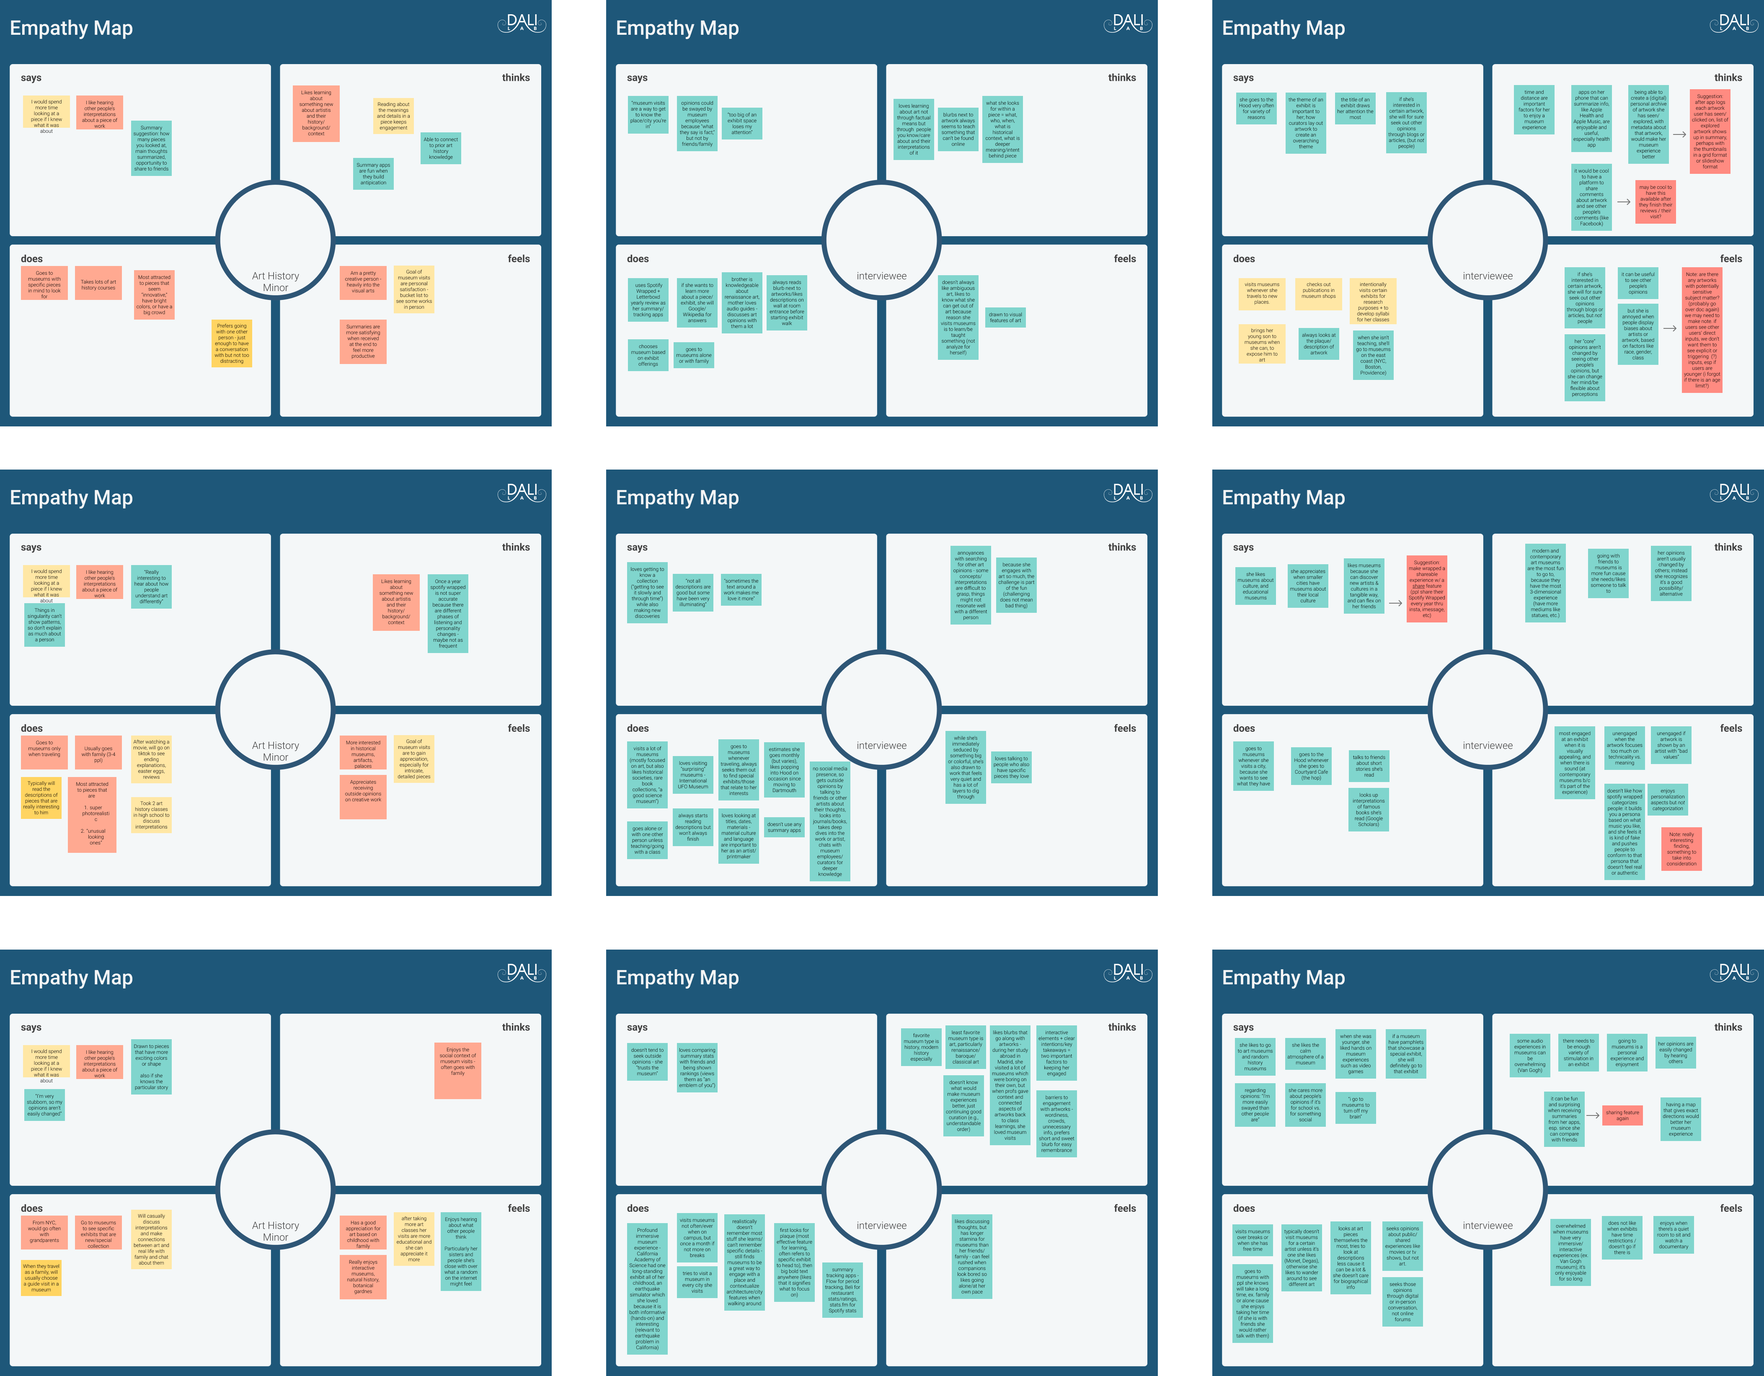
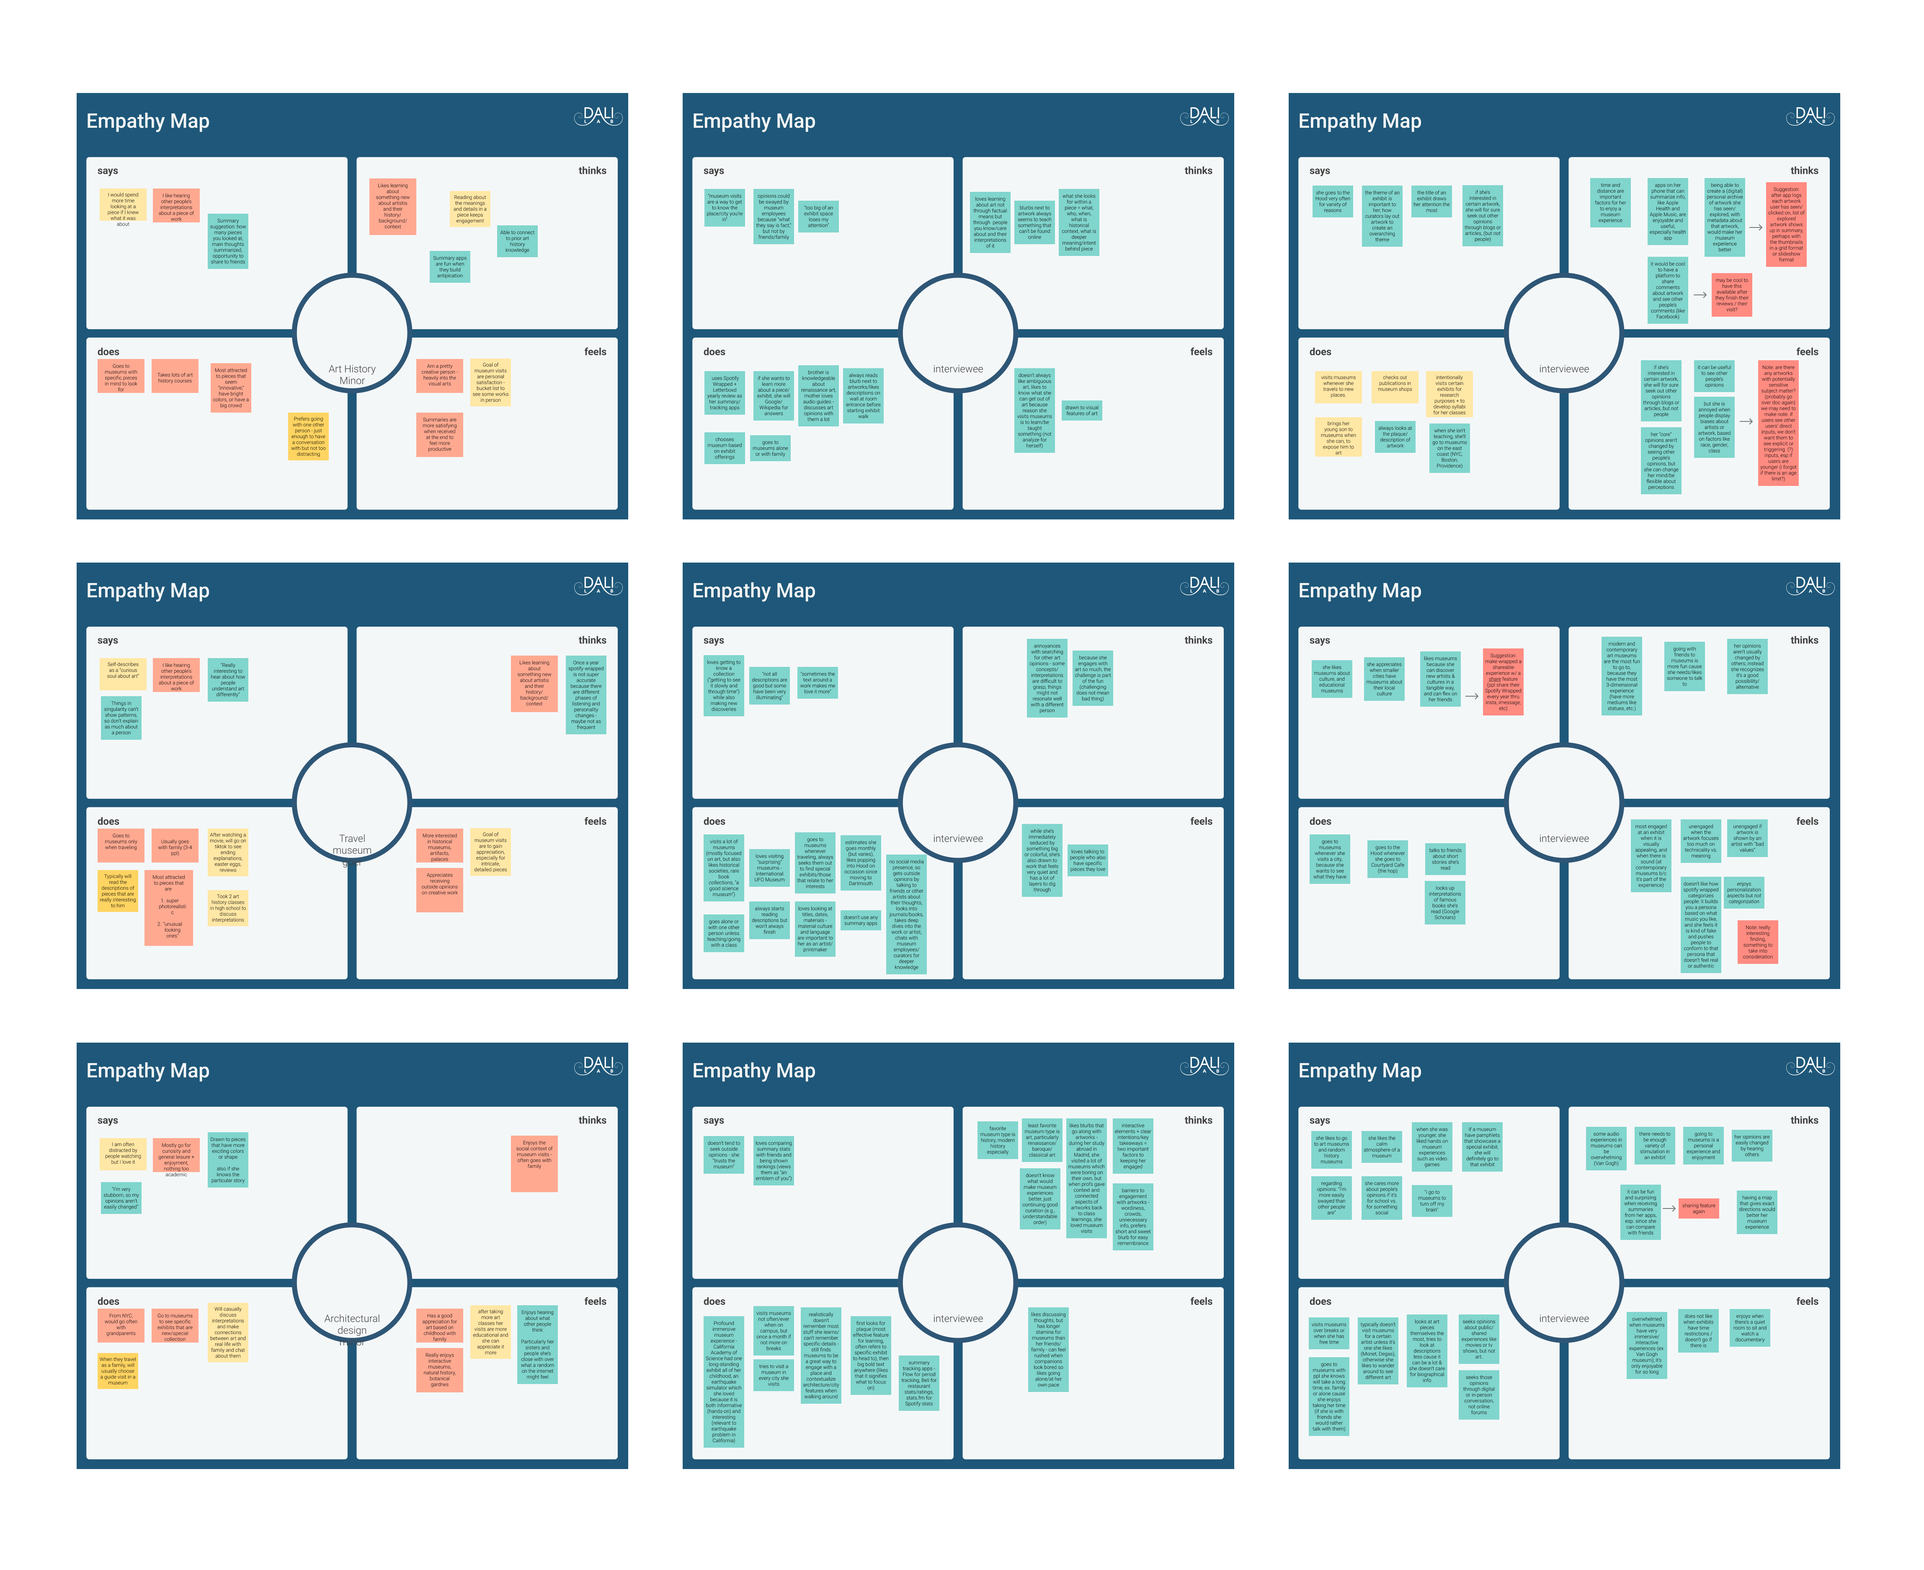
case study work

diff --git a/src/pages/ambiguityinart.js b/src/pages/ambiguityinart.js
@@ -63,13 +63,15 @@ function AmbiguityInArt() {
         <p>In previous studies, the FINN Lab team utilized a controlled lab setting where they gathered data through pen-and-paper surveys.
             However, they sought to expand their form of data collection through visitors of Dartmouth's art museum, the Hood Museum of Art.
             They envisioned a mobile 'edutainment' experience that allows museum-goers to enjoy an <b>interactive digital journey</b>, enabling them to <b>engage directly with the artwork before them</b>.
-            Our team was tasked with designing and developing a mobile app that allows Hood Museum visitors to interpret artworks through a Mad-Libs style activity.</p>
+            Our team was tasked with designing and developing a mobile app that allows Hood Museum visitors to interpret artworks through a <u>Mad-Libs style activity</u>.</p>
 
         <h4>Key Partners</h4>
         <p>Throughout the 10 week sprint, we met weekly with FINN Lab reps Professor Emily Finn and graduate student Clara Sava-Segal for reviews, standups, and feedback.</p>
+        <hr style={{ border: '0', borderTop: '1px solid #ccc', margin: '2rem 0', transform: 'scaleY(0.7)' }} />
       </section>
 
       <section id="product-demo" className="final-product-teaser">
+        <h3>SOLUTION</h3>
         <h2>Product Demo</h2>
         <p>A sneak peek of the prototype and some of its functionalities. Scroll to see the full story below! </p>
         
@@ -82,7 +84,7 @@ function AmbiguityInArt() {
               <img src="/assets/ambiguityinart/iphone15frame.png" className="case-study-video-frame"/>
             </div>
             <div className="video-description">
-              <p>Navigate through the Hood Museum map, and click on artworks that are part of the study. </p>
+              <p>Navigate through the Hood Museum map, and click on paintings that are part of the study. </p>
             </div>
           </div>
 
@@ -97,33 +99,32 @@ function AmbiguityInArt() {
               <p>Get personalized summary stats at the end of your museum session, including your artwork personality -- all determined by your interpretations. </p>
             </div>
           </div>
-
         </div>
+        <hr style={{ border: '0', borderTop: '1px solid #ccc', margin: '2rem 0', transform: 'scaleY(0.7)' }} />
       </section>
 
       <section className="partner-requests">
         <h2>Partner Requests</h2>
-        <p>A number of artworks were preselected from the Hood Museum galleries to be part of the study.
-          At our initial meeting, the FINN Lab partners presented to us a general user flow that would best achieve their research goals.
+        <p>A number of paintings were preselected from the Hood Museum galleries to be part of the study.
+          At our initial meeting, the FINN Lab partners presented a general user flow that would best achieve their research goals:
         </p>
         
         <div className="user-flow">
-          <div className="flow-step">Museum map showing artwork selections</div>
+          <div className="flow-step">Select an artwork from the museum map</div>
           <div className="flow-step">Fill out your interpretation (MadLibs style)</div>
           <div className="flow-step">Read an alternative interpretation</div>
-          <div className="flow-step">Rate other interpretation & rate your own</div>
+          <div className="flow-step">Rate that interpretation & rate your own</div>
           <div className="flow-step">Repeat steps with other artworks</div>
           <div className="flow-step">Activity summary at the end of session</div>
         </div>
         
-        <p>From the get-go, we were working within a unique constraint; we needed to <strong> balance an enjoyable user experience alongside the requirements and goals of a scientific study</strong>. 
+        <p>With this outline from the get-go, we needed to ensure we could <strong> balance an enjoyable user experience alongside the requirements and goals of a scientific study</strong>. 
           For example, the partners needed to record quantitative data from the ratings, but not make it obvious to the users, which we needed our designs to reflect.
           Down the line, we would need to separate some screens and include extra instructions to ensure that participants used the app correctly.
         </p>
       </section>
 
       <section id="problem-statement" className="problem-statement">
-        <p>We thus asked ourselves:</p>
         <h2 style={{ fontStyle: 'italic', fontSize: '30px'}}>How might we...</h2>
         <p>facilitate a research study on how people interpret art while making their museum experience enjoyable?</p>
       </section>
@@ -143,7 +144,7 @@ function AmbiguityInArt() {
           />
         </div>
         
-        <p>We noted the pros and cons for each app.</p>
+        <p>We noted down the pros and cons for each app.</p>
         <div style={{ backgroundColor: '#f0f0f0', padding: '1rem', display: 'inline-block', borderRadius: '15px' }}>
           <img
             src="../assets/ambiguityinart/industryresearch_visual2.png"
@@ -151,54 +152,83 @@ function AmbiguityInArt() {
           />
         </div>
 
-        <p>After personally using some of the apps and examining their user experience, we identified 3 main feature buckets: the museum map & navigation, rating interpretations & comparisons, and the activity summary.
-          We then spent time brainstorming specific requirements and components needed for each of the three.</p>
-          <img
-            src="../assets/ambiguityinart/featureidentification.png"
-            className="case-study-image"
-          />
+        <p>After personally using some of the apps and examining their user experience, we identified three main feature buckets:</p>
+        <div style= {{paddingLeft: '20px'}} >
+          <p><b>1. Museum map & navigation</b></p>
+          <p><b>2. Rating interpretations & comparisons</b></p>
+          <p><b>3. The activity summary</b></p>
+        </div>
 
-
-
+        <hr style={{ border: '0', borderTop: '1px solid #ccc', margin: '2rem 0', transform: 'scaleY(0.7)' }} />
       </section>
-
 
     
       <section id='user-research' className="user-research">
         <h3>USER RESEARCH</h3>
         <h2>User Interviews</h2>
-        <p>In order to understand the typical visitor's experience in the Hood Museum, we conducted interviews across multiple age groups. We sat down with students and faculty across Dartmouth's campus. Each interviewee had a varying degree of interest in museums or a relevant background in museum art. The goal of our user interviews was to gauge the following:</p>
-        <div>
-          <li>What is a typical visitor's experience at a museum, and what keeps them engaged?</li>
-          <li>What is the most user-friendly way to display other people’s opinions?</li>
-          <li>How do we best summarize personal data from each museum visit?</li>
+        <p>In order to understand a typical visitor's experience in the Hood Museum, we sat down with various students and faculty across Dartmouth. Each interviewee had a varying degree of interest in museums, or a background in museum art. The goal of our user interviews was to gauge the following:</p>
+        <div className="bubble-container">
+          <div className="bubble">
+            <p>What is the average visitor's experience at a museum like, and what keeps them engaged?</p>
+          </div>
+          <div className="bubble">
+            <p>Because the activity displays outside opinions, what is the most user-friendly way to display them?</p>
+          </div>
+          <div className="bubble">
+            <p>How do we best summarize personal data from each user's museum visit into their activity summary?</p>
+          </div>
         </div>
       </section>
 
+
       <section className="data-analysis">
         <h2>Data analysis</h2>
-        <p>After our user interviews, we synthesized our findings into <strong>empathy maps</strong>. We organized our findings into what interviewees say, do, think, and feel. From our synthesis, we gathered these key insights:</p>
+        <p>After our user interviews, we synthesized our findings into <strong>empathy maps</strong>. We organized our findings into what interviewees say, do, think, and feel.</p>
         <img src="../assets/ambiguityinart/empathymaps.png" className="empathy-maps" alt="Empathy Maps"/>
+        
+        <p>From our research, we gathered these key insights:</p>
         <ul>
-          <li><strong>Sharing with friends</strong> makes a user's experience more enjoyable, such as sharing insights across social media apps. One example is how Spotify stats show an “emblem of you”. This feature can get more people to come to the museum</li>
-          <li>Summary stats are more satisfying to receive all at the end, higher anticipation, also more accurate depiction when more data is presented vs. one at a time with minimal data. Slideshow recap of what you viewed/your interpretations in addition to comparative stats</li>
-          <li>Users want to <strong>know more about the art they are looking at</strong> - they want to know the story behind the art, the artist, and the context in which the art was created</li>
-          <li>Slideshow recap of what you viewed/your interpretations in addition to comparative stats</li>
-          <li>Short blurbs are more well-liked, but do we include blurbs or not? - Does this sway views early on?</li>
+          <p> 
+            <b style={{ color: '#6bb0a3', fontSize: '22px' }}>1.</b>
+            <span style={{ fontSize: '20px', fontWeight: '500' }}> Users want to know more about the art they are looking at</span>
+            <p>Many interviewees noted that they like to know the story behind the art, the artist, and the context in which the art was created. However, <u>this brought up an issue for us</u>: users would be prohibited from looking at the museum plaques during the study.</p>
+          </p>
+
+          <p>
+            <b style={{ color: '#6bb0a3', fontSize: '22px' }}>2.</b> 
+            <span style={{ fontSize: '20px', fontWeight: '500' }}> Sharing content with friends makes a user's experience more enjoyable </span>
+            <p> There are countless features across different social media apps, like Instagram and TikTok, where users can share content with one another. Another example is how Spotify's popular feature, Spotify Wrapped, is directly shareable from the app and postable on other media apps.
+            Having this kind of feature could incite more people to come to the museum.</p>
+          </p>
+          
+          <p>
+            <b style={{ color: '#6bb0a3', fontSize: '22px' }}>3.</b>
+            <span style={{ fontSize: '20px', fontWeight: '500' }}> Users prefer to receive all summary stats at the end</span>
+            <p>When discussing apps such as Spotify or Duolingo that provide activity summaries or stats for users, interviewees said that they would be more satisfied receiving those stats at the end of a session rather than intermittently. It creates a higher anticipation for the results, and also provides a more accurate depiction when more data is presented at once, compared to some data at a time with minimal data.</p>
+          </p>
         </ul>
-        <img src="assets/images/project1-research.jpg" alt="Research Image" className="case-study-image"/>
+        
+        <hr style={{ border: '0', borderTop: '1px solid #ccc', margin: '2rem 0', transform: 'scaleY(0.7)' }} />
       </section>
 
       <section class="ideation">
         <h3>IDEATION</h3>
         <h2>Sketching the User Flow</h2>
-        <p>Once we wrapped up with interview findings and our feature spec, each designer created Crazy 8 sketches as the initial ideation of screen designs.
-          I couldn't quite get to 8 on time, but I drew 6 screens, imagining the flow from the museum map to an individual artwork, then to interpretation of the artwork,
-          and lastly the summary of the user's total session, reminiscent of a Spotify-Wrapped like summary. </p>
+
+        <p>With our industry research and user research complete, we spent time brainstorming specific requirements and components needed for each feature bucket using a feature spec.</p>
+        <img
+          src="../assets/ambiguityinart/featureidentification.png"
+          className="case-study-image"
+        />
+
+        <p>Following this, each designer started off with a set of rapid fire sketches (Crazy 8s) as our initial screen ideations.
+        After our initial sketches, we refined them into solution sketches. Because the research study requires the consent of the users, we needed a clear presentation of the study's consent form before allowing the user to engage in the study itself. </p>
+        <p>Additionally, we needed to ensure that the user could easily navigate between the two floors of the museum, and that the user could easily toggle between the two floors.</p>
         <img src="../assets/ambiguityinart/crazy8s.png"/>
 
-        <p>After Crazy 8s, we created solution sketches to further define our screens. Because the research study requires the consent of the users, we needed a clear presentation of the study's consent form before allowing the user to engage in the study itself. </p>
-        <img src="../assets/ambiguityinart/sketch.png"/>
+        <img src="../assets/ambiguityinart/solutionsketches.png"/>
+        <img src="../assets/ambiguityinart/solutionsketches2.png"/>
+        <img src="../assets/ambiguityinart/solutionsketches3.png"/>
 
         <p>We defined a wireflow to ensure that the layout of the screens were clear and easy to understand.</p>
         <img src="../assets/ambiguityinart/wireflow.png"/>
@@ -209,17 +239,38 @@ function AmbiguityInArt() {
       <section id='design-process' class="design-process">
         <h3>DESIGN</h3>
         <h2>Grayscales</h2>
-        <p>After the wireflow, each designer created our own grayscale screens. After initial iterations, we came together to discuss which designs had the best usability.</p>
-        <p>After receiving user feedback from two rounds of iterations, we  </p>
+        <p>After the wireflow, each designer created our own grayscale screens. After initial iterations, we came together to discuss which designs had the best usability, and also sought user feedback for our iterations.</p>
+
+        <div class="image-text-container">
+          <div class="text-container">
+            <h4>Floor toggle</h4>
+            <p>There are two floors of the Hood Museum, so we needed a toggle feature between the two floor maps. Each of us came up with different toggle components. </p>
+          </div>
+          <img src="../assets/ambiguityinart/grayscales1.png" />
+       </div>
+  
+        <div class="image-text-container">
+          <div class="text-container">
+            <h4>Artwork selection </h4>
+            <p>The user needed to be able to select an artwork from the map to be brought to the Mad-Libs activity. We came up with four different ways in which users could select an artwork.</p>
+          </div>
+          <img src="../assets/ambiguityinart/grayscales2.png" />
+        </div>
+
+        <div class="image-text-container">
+          <div class="text-container">
+            <h4>Interpretation ratings </h4>
+            <p>A user had to rate their own artwork interpretations, as well as another anonymous user's interpretation. We ordered the interpretations and ratings slightly differently, which was great for comparing and contrasting.</p>
+          </div>
+          <img src="../assets/ambiguityinart/grayscales3.png" />
+        </div>
+
+        <p>After receiving user feedback from multiple rounds of iterations, we...</p>
 
         <h3>Prototypes</h3>
-        <p></p>
+        <p>I made sure to include a progress bar so that the user would be aware of how much they had progressed through the interpretation activity.</p>
 
-        <img src="assets/images/project1-design-process.jpg" alt="Design Process Image" class="case-study-image"/>
       </section>
-
-
-
 
     </div>
 

diff --git a/src/pages/ambiguityinart.css b/src/pages/ambiguityinart.css
@@ -70,7 +70,7 @@ h3 {
   padding-top: 1rem;
   padding-left: 6rem;
   padding-bottom: 1rem;
-  background-color: #262626;
+  background-color: #0C5753;
   color: #dadada;
   justify-content: space-around;
 }
@@ -189,7 +189,7 @@ h3 {
 }
 
 .problem-statement {
-  background-color: #d0eae5;
+  background-color: #dcedea;
   border-radius: 15px;
   padding: 1rem;
   margin-left: 6rem;
@@ -206,13 +206,33 @@ h3 {
 .user-research {
   margin-left: 6rem;
   margin-right: 6rem;
-  margin-bottom: 6rem; /* Added margin-bottom */
+  margin-bottom: 6rem; 
 }
+
+.bubble-container {
+  display: flex;
+  flex-direction: column;
+  align-items: center; 
+  gap: 1rem; 
+  margin: 0 auto; 
+  max-width: 80%; 
+  font-style: italic;
+}
+
+.bubble {
+  background-color: #bfe2ea; 
+  border-radius: 15px;
+  padding: 1rem;
+  box-shadow: 0 2px 4px rgba(0, 0, 0, 0.1);
+  width: 100%; 
+  font-size: 26px;
+}
+
 
 .data-analysis {
   margin-left: 6rem;
   margin-right: 6rem;
-  margin-bottom: 6rem; /* Added margin-bottom */
+  margin-bottom: 6rem; 
 }
 
 .empathy-maps {
@@ -232,9 +252,32 @@ h3 {
 .design-process {
   margin-left: 6rem;
   margin-right: 6rem;
-  margin-bottom: 6rem; /* Added margin-bottom */
+  margin-bottom: 6rem;
 }
 
 .design-process img {
-  max-width: 80%;
+  max-width: 80%; 
+}
+
+.image-text-container {
+  display: grid;
+  grid-template-columns: 25% 75%; /* Two equal columns */
+  align-items: start;  
+  margin-bottom: 2rem; 
+}
+
+.image-text-container img {
+  max-width: 100%; /* Ensures images fit within their grid cell */
+  border-radius: 15px;
+  background-color: #dcedea;
+  padding: 1rem;
+}
+
+.image-text-container p {
+  margin: 0 1rem 0 0; /* Adds space between text and image */
+}
+
+.text-container {
+  display: flex;
+  flex-direction: column;
 }
